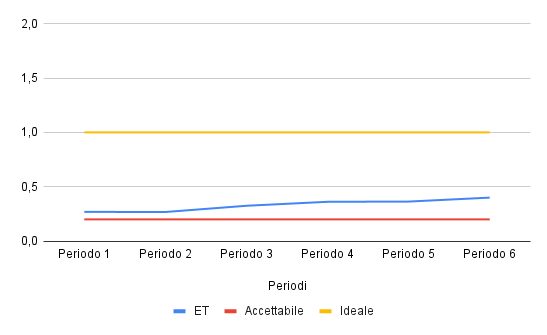
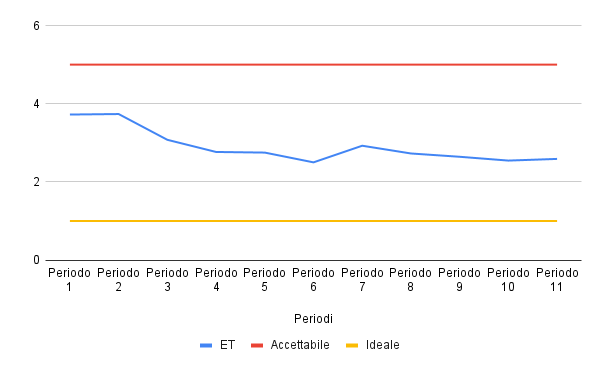
Aggionamento ET

diff --git a/PB/Documentazione Esterna/Piano_di_Qualifica.tex b/PB/Documentazione Esterna/Piano_di_Qualifica.tex
@@ -830,7 +830,7 @@ riscontrati rischi non previsti nel corso dei primi sei periodi del progetto.
 \textbf{PB}: Anche durante la seconda fase del progetto il gruppo non ha riscontrato alcun rischio non previsto.\\
 
 
-\subsubsection{MPC17 - Efficienza temporale (ET)}%TODO
+\subsubsection{MPC17 - Efficienza temporale (ET)}
 
 \begin{figure}[H]
   \centering
@@ -840,14 +840,18 @@ riscontrati rischi non previsti nel corso dei primi sei periodi del progetto.
 \end{figure}
 
 % da modificare NdP aggiungendo il fatto che le ore produttive e totali si riferiscono al singolo sprint e non all'interezza del progetto
-\textbf{RTB}: La metrica di efficienza temporale è data dal rapporto fra il numero di ore produttive e totali per ogni sprint, e indica quante delle ore dedicate al progetto
-sono state effettivamente usate per la produzione di materiale (software o di altra natura), rispetto alle ore effettivamente consumate dai membri del gruppo. Le ore produttive sono state accuratamente rendicontate per l'intera durata del progetto, mentre quelle totali (che includono anche le produttive), sono state misurate in
+\textbf{RTB}: La metrica di efficienza temporale è data dal rapporto fra il numero di ore totali e produttive per ogni sprint, e indica quante delle ore dedicate al progetto
+sono state effettivamente usate per la produzione di materiale (software o di altra natura), rispetto alle ore effettivamente consumate dai membri del gruppo. Le ore 
+produttive sono state accuratamente rendicontate per l'intera durata del progetto, mentre quelle totali (che includono anche le produttive), sono state misurate in
 maniera più precisa possibile, ma senza pretese di assoluta esattezza, per via della natura di queste ultime.\\
-Dal grafico emerge che la ET si mantiene, per l'intera durata delle prime sei iterazioni del progetto, poco al di sopra del valore minimo accettabile (pari a 0.2), ma al di 
-sotto del valore ideale (pari o superiore a 1.0).\\
+Dal grafico emerge che la ET si mantiene, per l'intera durata delle prime sei iterazioni del progetto,  al di sotto del valore massimo accettabile (pari a 5.0), ma al di 
+sopra del valore ideale (pari a 1.0).\\
 
 \noindent
-\textbf{PB}:
+\textbf{PB}: Da notare che rispetto alla prima fase del progetto, la formula di calcolo della metrica ET è stata modificata invertendo numeratore e denominatore, per 
+renderla più facilmente interpretabile.\\
+Detto ciò per la seconda fase del progetto il valore della metrica soi è sempre attestato fra 2.5 e 3.0, in linea con le aspettative, ma senza registrare un miglioramento 
+rispetto alle ultime iterazioni della prima fase.\\
 
 
 \subsection{Qualità di processo - Documentazione}
